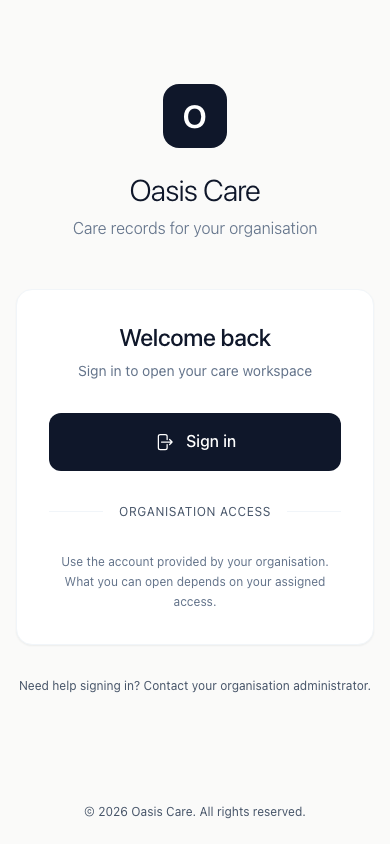
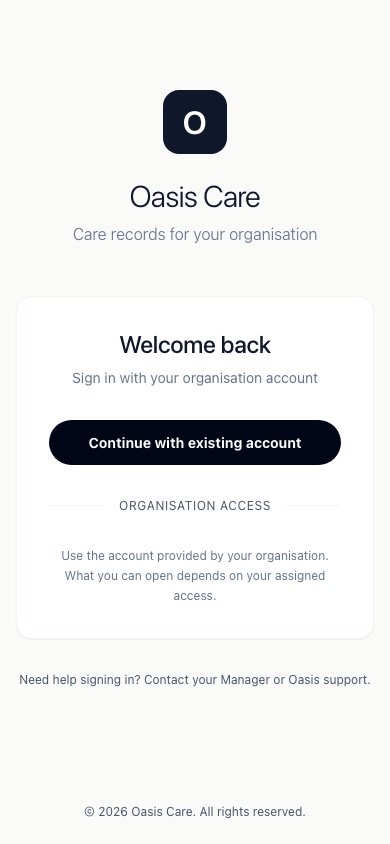
fix(web): address truthful-copy review

diff --git a/apps/web/app/admin/metrics/page.tsx b/apps/web/app/admin/metrics/page.tsx
@@ -6,15 +6,15 @@ import { hasRole } from '../../../lib/auth/roles'
 import { getServerAuthContext } from '../../../lib/auth/server-auth'
 
 export const metadata: Metadata = {
-  title: 'Metrics - Oasis Care Admin',
-  description: 'System metrics and performance monitoring',
+  title: 'Service monitoring - Oasis Care',
+  description: 'Observed service monitoring response',
 }
 
 async function getMetrics(): Promise<string> {
   try {
     const { accessToken } = await getServerAuthContext()
     if (!accessToken) {
-      return 'Metrics unavailable: missing access token'
+      return 'Metrics unavailable'
     }
 
     const fullApiUrl = process.env.NEXT_PUBLIC_API_URL || 'http://localhost:4000/graphql'
@@ -31,8 +31,8 @@ async function getMetrics(): Promise<string> {
     }
     
     return await response.text()
-  } catch (error) {
-    return `Metrics unavailable: ${error instanceof Error ? error.message : 'Unknown error'}`
+  } catch {
+    return 'Metrics unavailable'
   }
 }
 
@@ -51,10 +51,10 @@ export default async function MetricsPage() {
         
         <div className="mb-6">
           <h1 className="text-3xl font-bold text-text-primary font-heading mb-2">
-            System Metrics
+            Service monitoring
           </h1>
           <p className="text-text-secondary">
-            Application performance and monitoring data
+            Observed monitoring response from Oasis
           </p>
         </div>
 
@@ -67,7 +67,7 @@ export default async function MetricsPage() {
             </CardHeader>
             <CardContent>
               <p className="text-sm leading-6 text-text-secondary">
-                The authenticated API metrics endpoint. This page shows its response without inferring service health.
+                Monitoring data returned by this Oasis service. This page does not infer service health.
               </p>
             </CardContent>
           </Card>
@@ -80,7 +80,7 @@ export default async function MetricsPage() {
             </CardHeader>
             <CardContent>
               <p className="text-sm leading-6 text-text-secondary">
-                Runtime label: <span className="font-mono text-text-primary">{process.env.NODE_ENV || 'unknown'}</span>
+                System environment: <span className="font-mono text-text-primary">{process.env.NODE_ENV || 'unknown'}</span>
               </p>
             </CardContent>
           </Card>
@@ -93,7 +93,7 @@ export default async function MetricsPage() {
             </CardHeader>
             <CardContent>
               <p className="text-sm leading-6 text-text-secondary">
-                An administrator account is required. Reload this page to request a fresh response.
+                A Manager account is required. Reload this page to request a fresh response.
               </p>
             </CardContent>
           </Card>
@@ -105,10 +105,10 @@ export default async function MetricsPage() {
             <div className="flex items-center justify-between">
               <div>
                 <h2 className="text-xl font-semibold text-text-primary font-heading">
-                  Raw Metrics Data
+                  Monitoring response
                 </h2>
                 <p className="text-sm text-text-secondary">
-                  Prometheus-style metrics from the API server
+                  Response returned by the monitoring service
                 </p>
               </div>
             </div>
@@ -120,7 +120,7 @@ export default async function MetricsPage() {
               </pre>
             </div>
 
-            {/* Info Notice */}
+            {/* Access notice */}
             <div className="mt-4 p-4 bg-blue-50 border border-blue-200 rounded-sm">
               <div className="flex items-start">
                 <div className="flex-shrink-0">
@@ -130,7 +130,7 @@ export default async function MetricsPage() {
                 </div>
                 <div className="ml-3">
                   <h3 className="text-sm font-medium text-blue-800">
-                    Admin Access Required
+                    Manager access required
                   </h3>
                   <div className="mt-2 text-sm text-blue-700">
                     <p>An unavailable response is shown as unavailable. This page does not prove API or database health.</p>

diff --git a/apps/web/app/access/[state]/page.tsx b/apps/web/app/access/[state]/page.tsx
@@ -4,11 +4,11 @@ import { AccessStateActions } from "../AccessStateActions";
 const messages = {
   "no-membership": {
     title: "Access is not set up",
-    body: "Your sign-in worked, but it is not connected to an Oasis organisation yet. Ask your organisation administrator to finish setting up access.",
+    body: "Your sign-in worked, but it is not connected to an Oasis organisation yet. Ask your Manager to finish setting up access.",
   },
   disabled: {
     title: "Access is disabled",
-    body: "This account cannot currently open an Oasis workspace. Contact your organisation administrator.",
+    body: "This account cannot currently open an Oasis workspace. Contact your Manager or Oasis support.",
   },
   pending: {
     title: "Invitation pending",
@@ -16,11 +16,11 @@ const messages = {
   },
   setup: {
     title: "Setup required",
-    body: "Your sign-in worked. An organisation administrator must finish linking the account before care information can be opened.",
+    body: "Your sign-in worked. A Manager must finish linking the account before care information can be opened.",
   },
   unavailable: {
     title: "Access is temporarily unavailable",
-    body: "Oasis could not confirm access for this account. Try again or contact your organisation administrator.",
+    body: "Oasis could not confirm access for this account. Try again or contact your Manager or Oasis support.",
   },
 } as const;
 
@@ -45,7 +45,7 @@ export default function AccessStatePage({
         <div className="mt-7">
           <AccessStateActions />
         </div>
-        <p className="mt-5 text-xs text-slate-400">
+        <p className="mt-5 text-xs text-slate-600">
           No care information has been loaded.
         </p>
       </section>

diff --git a/apps/web/app/page.tsx b/apps/web/app/page.tsx
@@ -7,15 +7,15 @@ const pillars = [
   },
   {
     name: 'Deliver',
-    text: 'Guided care visits, care actions, medication support, and notes recorded once.',
+    text: 'Guided visit records, care actions, and notes kept together.',
   },
   {
     name: 'Prove',
-    text: 'Operational records become source-linked evidence for managers and inspections.',
+    text: 'Managers can review operational records and prepare information for inspections.',
   },
   {
     name: 'Reassure',
-    text: 'Approved family updates and concern cases keep relatives informed without raw-record exposure.',
+    text: 'Approved family updates and concern cases keep relatives informed without showing internal care records.',
   },
   {
     name: 'Improve',
@@ -42,7 +42,7 @@ export default function Home() {
           </div>
           <Link
             href="/login"
-            className="whitespace-nowrap rounded-full border border-slate-300 bg-white/80 px-5 py-2.5 text-sm font-semibold text-slate-800 shadow-sm backdrop-blur hover:border-teal-500 hover:text-teal-800"
+            className="whitespace-nowrap rounded-full border border-slate-300 bg-white/80 px-5 py-3 text-sm font-semibold text-slate-800 shadow-sm backdrop-blur hover:border-teal-500 hover:text-teal-800"
           >
             Sign in
           </Link>

diff --git a/apps/web/app/login/page.tsx b/apps/web/app/login/page.tsx
@@ -23,16 +23,12 @@ function LoginContent() {
   } as NodeJS.ProcessEnv);
   const [role, setRole] = useState('admin');
   const errorMessage =
-    error === 'OAuthSignin'
-      ? 'Authentication provider configuration is invalid. Please check the production auth provider settings.'
-      : error === 'OAuthCallback'
-      ? 'There was a problem signing in. Please try again.'
-      : error === 'Configuration'
-      ? 'Authentication is not configured correctly for this environment.'
+    error === 'OAuthCallback'
+      ? 'We could not complete sign-in. Try again.'
       : error === 'CredentialsSignin'
-      ? 'We could not start a local session. Please try again.'
+      ? 'We could not sign you in. Check your details and try again.'
       : error
-      ? 'An error occurred. Please try again.'
+      ? 'Sign-in is not available right now. Try again or contact your Manager or Oasis support.'
       : null;
 
   async function handleLocalSignIn() {
@@ -162,7 +158,7 @@ function LoginContent() {
 
           {/* Footer */}
           <p className="mt-8 text-center text-xs text-slate-600">
-            Need help signing in? Contact your organisation administrator.
+            Need help signing in? Contact your Manager or Oasis support.
           </p>
         </div>
       </main>

diff --git a/docs/design/truthful-public-login-controls.md b/docs/design/truthful-public-login-controls.md
@@ -24,7 +24,7 @@ Sign in
   [Sign in]
   Organisation access
   Assigned-access explanation
-  Administrator help message
+  Manager or Oasis support help message
 
 Metrics
   Source | Environment | Access
@@ -41,7 +41,7 @@ Metrics
 | Login | legacy configured provider | One plain `Sign in` action |
 | Login | local development/test | Explicit test workspace selector |
 | Login | provider/configuration error | Bounded, actionable error without internals |
-| Access | no membership, disabled, pending, setup, unavailable | One calm explanation, administrator action, and confirmation that no care information loaded |
+| Access | no membership, disabled, pending, setup, unavailable | One calm explanation, Manager or support action, and confirmation that no care information loaded |
 | Metrics | endpoint responds | Raw authenticated response only |
 | Metrics | endpoint unavailable | Bounded unavailable text; no fabricated health status |
 
@@ -61,15 +61,17 @@ After: descriptive service language, role-specific `Manager Today`, a plain acco
 ## Accessibility and keyboard evidence
 
 - Axe: zero violations on public and login at all three viewports; no allowlist.
+- Access states: all five states passed Axe and horizontal-overflow checks at all three viewports (15/15) through the repository's development-only Clerk browser stub. Browser Use separately confirmed the `unavailable` DOM, actions and rendered layout.
 - Keyboard: public focus order is Sign in → Request company access → Open Manager Today → Review family updates. Login exposes one Sign in action and returns to it after the document tab cycle.
 - Login now has one `main` landmark and a `footer`; low-contrast slate-400 text was raised to slate-600.
-- In-app Browser review confirmed the final public and login DOM and rendered desktop layouts. The isolated production server reported the expected local auth fetch error because no `COGNITO_ISSUER` was supplied; no sign-in was attempted and authenticated behaviour is unchanged.
+- In-app Browser review confirmed the final public, login and representative access-state DOM and rendered layouts. The production-like server reported the expected local auth fetch error because no `COGNITO_ISSUER` was supplied; protected visual evidence therefore used the explicit `OASIS_BROWSER_CLERK_STUB` development fixture. No sign-in was attempted and authenticated behaviour is unchanged.
+- Authenticated metrics and hosted Clerk screens are not claimed as visually verified in this branch; they require the later synthetic tenant/auth fixture gate.
 - Full web tests: 102/102 passed. Production web build passed.
 
 ## Screenshots
 
-| Viewport | Public | Login |
-| --- | --- | --- |
-| 390×844 | [public mobile](evidence/truthful-copy/public-390x844.png) | [login mobile](evidence/truthful-copy/login-390x844.png) |
-| 768×1024 | [public tablet](evidence/truthful-copy/public-768x1024.png) | [login tablet](evidence/truthful-copy/login-768x1024.png) |
-| 1440×900 | [public desktop](evidence/truthful-copy/public-1440x900.png) | [login desktop](evidence/truthful-copy/login-1440x900.png) |
+| Viewport | Public | Login | Access: no membership | Access: unavailable |
+| --- | --- | --- | --- | --- |
+| 390×844 | [public mobile](evidence/truthful-copy/public-390x844.png) | [login mobile](evidence/truthful-copy/login-390x844.png) | [no membership mobile](evidence/truthful-copy/access-no-membership-390x844.png) | [unavailable mobile](evidence/truthful-copy/access-unavailable-390x844.png) |
+| 768×1024 | [public tablet](evidence/truthful-copy/public-768x1024.png) | [login tablet](evidence/truthful-copy/login-768x1024.png) | [no membership tablet](evidence/truthful-copy/access-no-membership-768x1024.png) | [unavailable tablet](evidence/truthful-copy/access-unavailable-768x1024.png) |
+| 1440×900 | [public desktop](evidence/truthful-copy/public-1440x900.png) | [login desktop](evidence/truthful-copy/login-1440x900.png) | [no membership desktop](evidence/truthful-copy/access-no-membership-1440x900.png) | [unavailable desktop](evidence/truthful-copy/access-unavailable-1440x900.png) |
